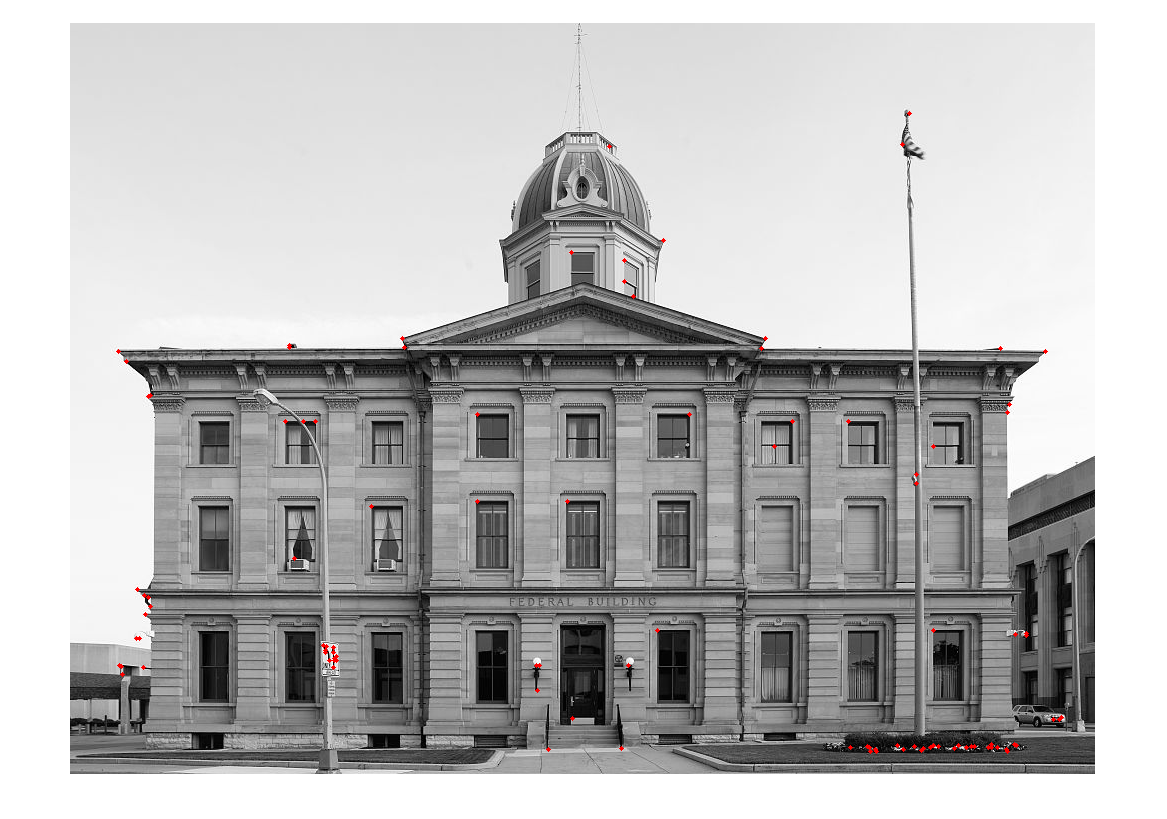
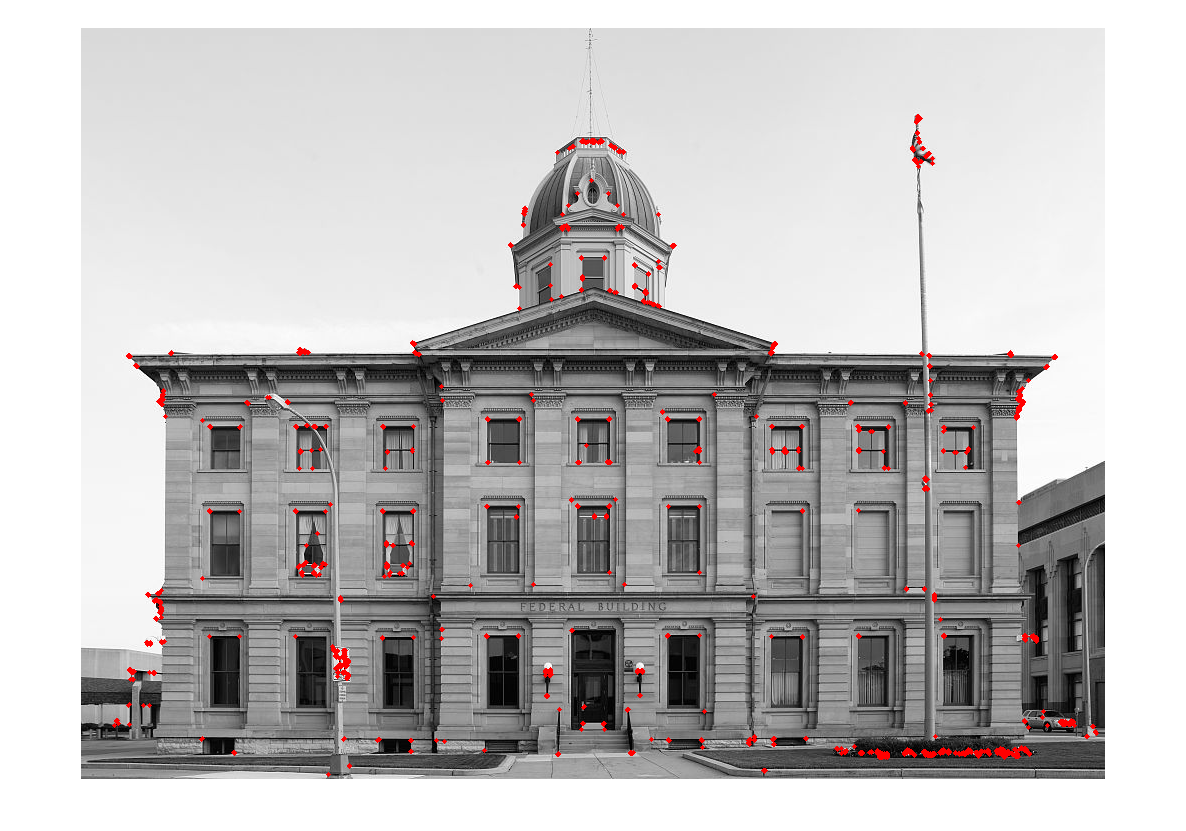
Lower Harris corner threshold to get more points

Changed region(s): [[0.0617, 0.1221, 0.9563, 0.9463], [0.0617, 0.0305, 0.0925, 0.2442], [0.4936, 0.0305, 0.5244, 0.0611]]

diff --git a/A2/a2q1a.m b/A2/a2q1a.m
@@ -32,7 +32,7 @@ Rmax = max(max(R));
 
 % Non-maximum suppression
 Res = zeros(h, w);
-thresh = Rmax*0.095;
+thresh = Rmax*0.028;
 for i = 1:h
 	for j = 1:w
 		% Keep if px is greater than thresh and surrounding px
@@ -53,6 +53,7 @@ for i = 1:h
 		end
 	end
 end
+
 [posc, posr] = find(Res == 1);
 imshow(img);
 hold on;
